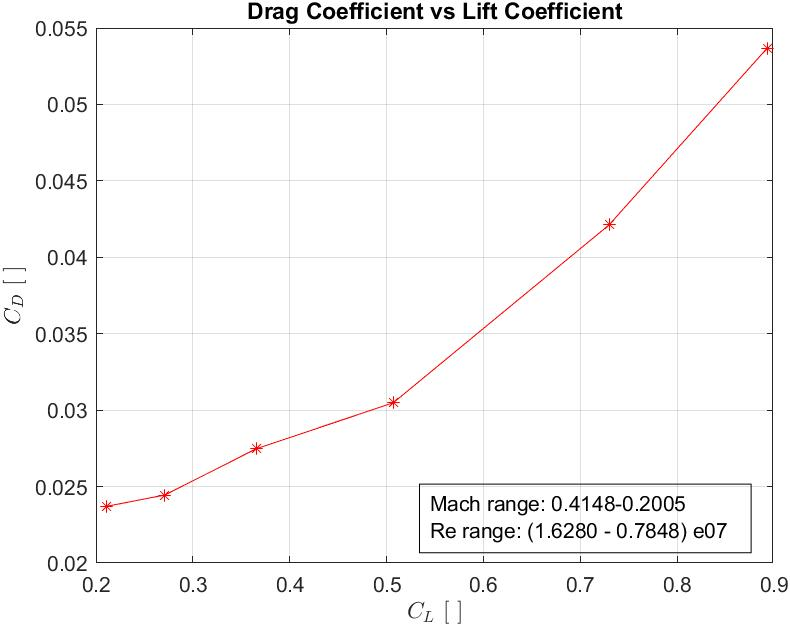
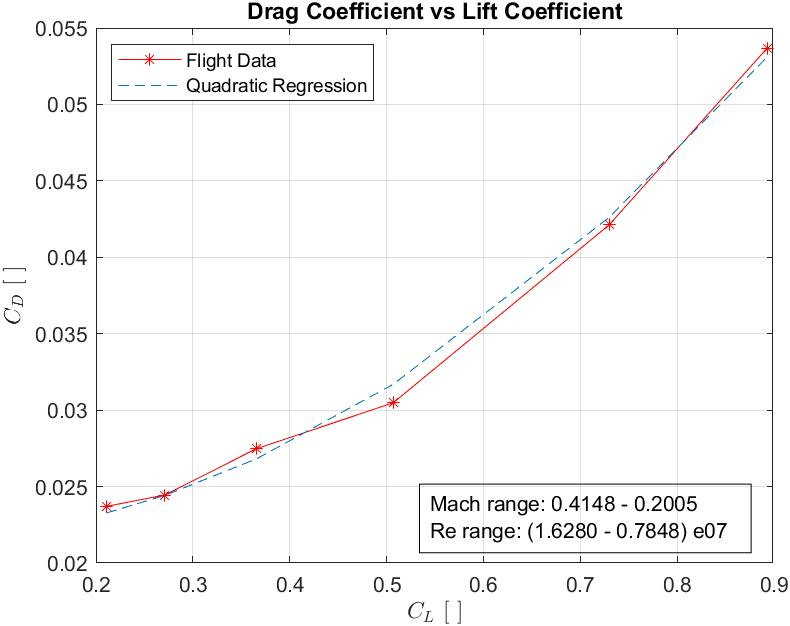
new dope pics

diff --git a/data_analysis_clcd.m b/data_analysis_clcd.m
@@ -95,36 +95,43 @@ alpha0_deg = -CL_vs_alpha(2)/CL_vs_alpha(1);
 alpha0_rad = alpha0_deg*pi/180;
 CLa_deg = CL_vs_alpha(1);
 CLa_rad = CL_vs_alpha(1)*180/pi;
+fitC_L = CLa_deg*alpha+CL_vs_alpha(2);
 
 % plot(C_L.^2,C_D);
 CD_vs_CLsq = polyfit(C_L.^2,C_D,1);
 CD0 = CD_vs_CLsq(2);
 e = 1/(pi*A*CD_vs_CLsq(1));
+fitC_D = CD_vs_CLsq(1).*C_L.^2+CD_vs_CLsq(2);
 
 Re = Vt*chord./dyn_visc;
 
 %plots
 figure(1)
-clvsa = plot(alpha,C_L);
-plot
+clvsa = plot(alpha,C_L,'b');
 clvsa.Marker='*';
+hold on
+fit1 = plot(alpha,fitC_L,'--');
 dim = [0.5 0.12 0.5 0.11];
-str = {'Mach range: 0.4148-0.2005','Re range: (1.6280 - 0.7848) e07'};
+str = {'Mach range: 0.4148 - 0.2005','Re range: (1.6280 - 0.7848) e07'};
 annotation('textbox',dim,'String',str,'FitBoxToText','on');
 title('Lift Coefficient vs Angle of Attack');
 xlabel('$$\alpha$$ [deg]','Interpreter','Latex');
 ylabel('$$C_L$$ [ ]','Interpreter','Latex');
+legend({'Flight Data','Linear Regression'},'Location','northwest')
 grid on
 
 figure(2)
 clvscd = plot(C_L,C_D,'r');
 clvscd.Marker='*';
+hold on
+fit2 = plot(C_L,fitC_D,'--');
 dim = [0.5 0.12 0.5 0.11];
-str = {'Mach range: 0.4148-0.2005','Re range: (1.6280 - 0.7848) e07'};
+str = {'Mach range: 0.4148 - 0.2005','Re range: (1.6280 - 0.7848) e07'};
 annotation('textbox',dim,'String',str,'FitBoxToText','on');
 title('Drag Coefficient vs Lift Coefficient');
 xlabel('$$C_L$$ [ ]','Interpreter','Latex');
 ylabel('$$C_D$$ [ ]','Interpreter','Latex');
+legend({'Flight Data','Quadratic Regression'},'Location','northwest')
 grid on
 
 
